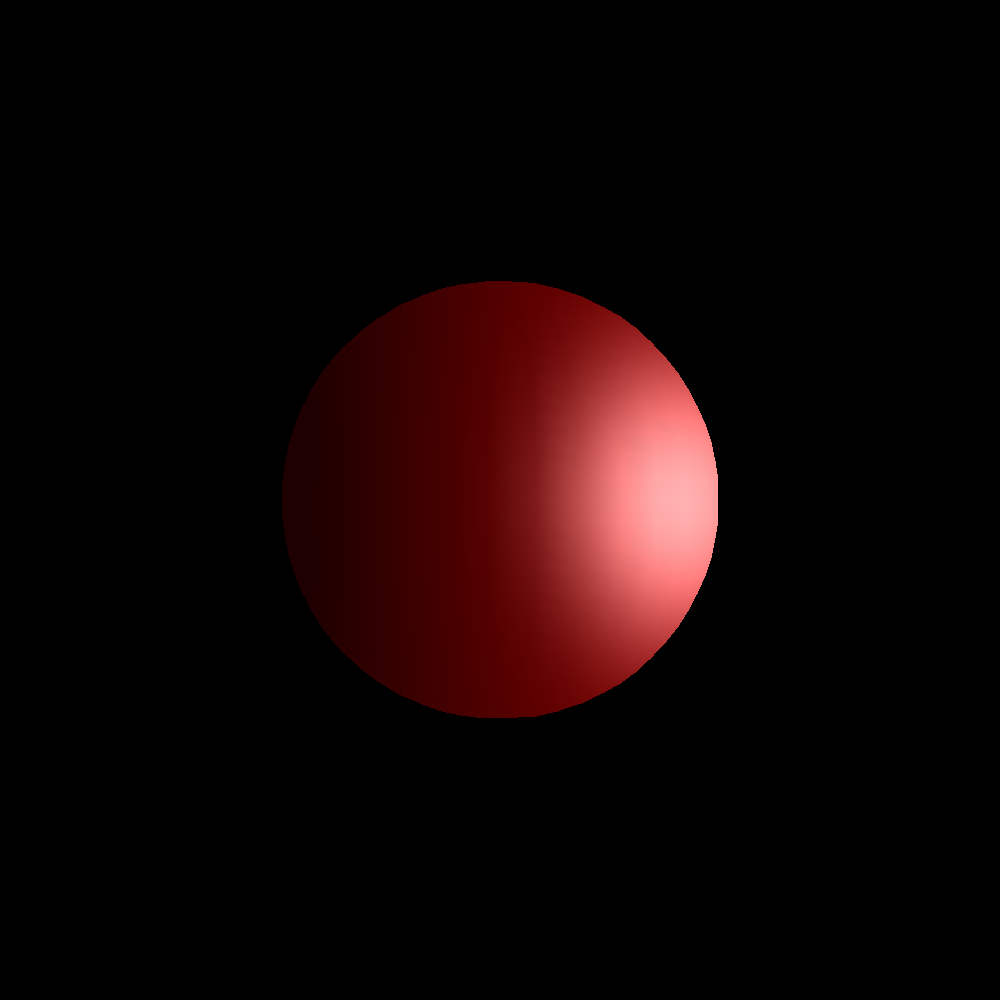
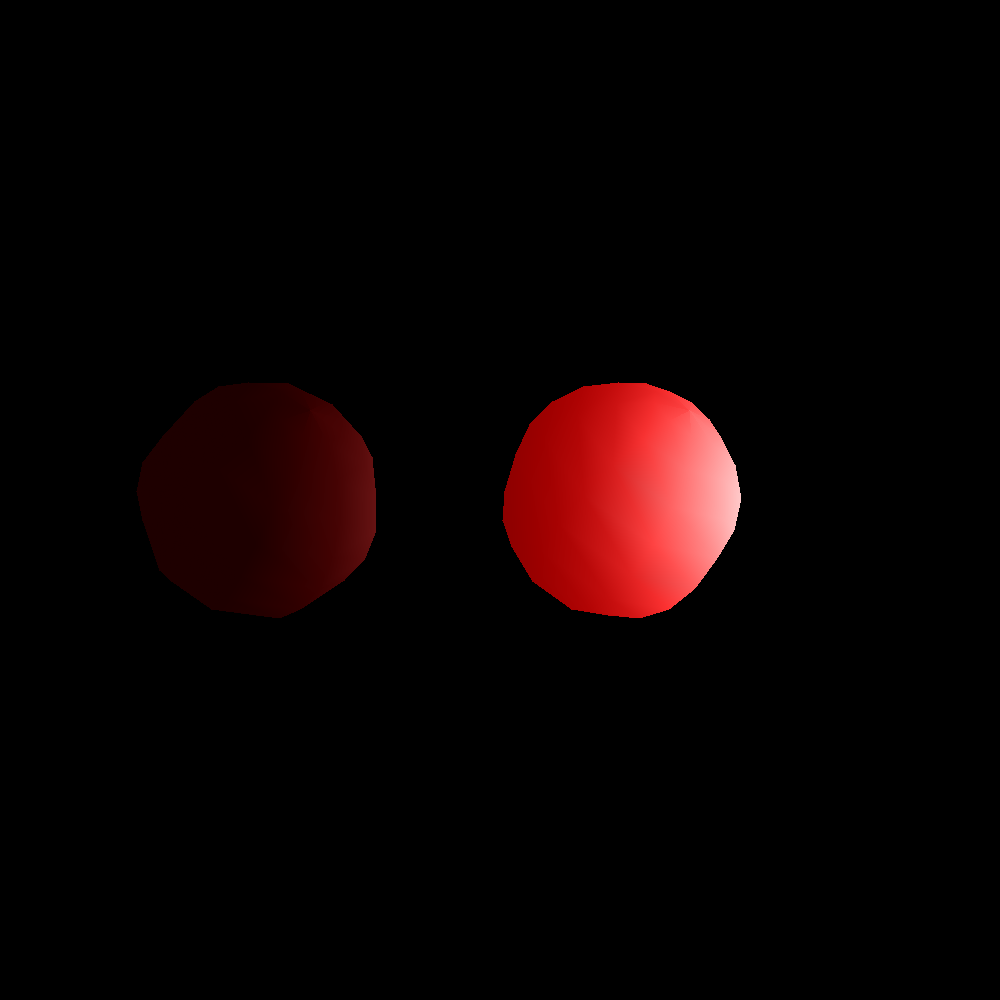
Directional Light

Changed region(s): [[0.124, 0.279, 0.744, 0.744]]

diff --git a/Zad1/DirectionalLight.cpp b/Zad1/DirectionalLight.cpp
@@ -1,57 +1,66 @@
 #include "DirectionalLight.h"
 #include <iostream>
 
-void DirectionalLight::Calculate(Matrix4& camera, Matrix4& obj2view, int& vSize, std::vector<Vector3>& normals, std::vector<Vector3>& vertices, std::vector<Vector3>& color, std::vector<Vector3>& indices, std::vector<Triangle>& triangles)
+DirectionalLight::DirectionalLight(Vector3 position, Vector3 ambient, Vector3 diffuse, Vector3 specular, int shininess, float specularStrenght)
+{
+	this->position = position;
+	this->ambientColor = ambient;
+	this->diffuseColor = diffuse;
+	this->specularColor = specular;
+	this->shininess = shininess;
+	this->specularStrenght = specularStrenght;
+}
+
+void DirectionalLight::Calculate(Mesh& mesh)
 {
 
-	for (int i = 0; i < vSize; ++i)
+	for (int i = 0; i < mesh.vSize; ++i)
 	{
-		Matrix4 model;
-		model = model.Translate(model, Vector3(0, 0, 4));
-		//model = model.Rotate(model,Vector3(1, 0, 0), 45);
-		Vector4 g = obj2view * camera * model * Vector4(normals[i], 1);
-		Vector4 p = obj2view * camera * model * Vector4(-vertices[i], 1);
-		Vector3 N = Vector3(g.x, g.y, g.z);
-		N = N.Normalize();
-		Vector3 V = Vector3(p.x, p.y, p.z);
+		//vertices and normals
+		Vector4 normals = mesh.projection * mesh.camera *mesh.model * Vector4(mesh.normals[i], 1);
+		Vector4 vertices = mesh.projection * mesh.camera * mesh.model * Vector4(-mesh.vertices[i], 1);
+		Vector3 N = Vector3(normals.x, normals.y, normals.z);
+		Vector3 V = Vector3(vertices.x, vertices.y, vertices.z);
+		V = Vector3::Normalize(V);
+		N = Vector3::Normalize(N);
 
-		Vector3 xd = Vector3(0.2f, 0, 0);
-		Vector4 gg = obj2view * camera * Vector4(xd, 1);
-		Vector3 fg = Vector3(gg.x, gg.y, gg.z);
-		fg = fg.Normalize();
-		Vector3 R = (N * 2 * (Vector3::Dot(fg, N))) - fg;
-		float diff = Vector3::Dot(fg, N);
-		float specular = Vector3::Dot(R = Vector3::Normalize(R), V=Vector3::Normalize(V));
-		//specular = 1 / specular;
-		//std::cout << diff << "\n";
-		if (diff < 0) diff = 0;
-		//if (diff > 1) diff = 1;
+		//light position
+		Matrix4 d;
+		d = Matrix4::Translate(d, Vector3(0, 0, 5));
+		Vector4 pos = mesh.projection * mesh.camera  *Vector4(position, 1);
+		Vector3 lightPosition = Vector3(pos.x, pos.y, pos.z);
+		lightPosition = lightPosition.Normalize();
+
+		//difffuse
+		float diffuse = Vector3::Dot(lightPosition, N);
+		if (diffuse < 0) diffuse = 0;
+		Vector3 dif = diffuseColor * diffuse;
+
+		//specular
+		Vector3 R = (N * 2 * (Vector3::Dot(lightPosition, N))) - lightPosition;		
+		R = Vector3::Normalize(R);
+		float specular = Vector3::Dot(R , V);
 		Vector3 spec;
-		if (specular > 0) {
+
+		if (specular > 0) 
+		{
 			specular = pow(specular, 4);
-
-			spec = Vector3(255, 255, 255) * specular * 0.7f ;
+			spec = specularColor * specular * 0.9f ;
 		}
-		//else { spec = Vector3(0, 0, 0); }
-		
-		//if (specular < 0) specular = 0;
-		//if (specular > 0) specular = 1;
 
-		Vector3 dif = Vector3(140, 0, 0) * diff;
-
-		Vector3 amb(30, 0, 0);
-		color.push_back( dif + spec + amb );
-		if (color[i].x > 255) color[i].x = 255;
-		if (color[i].y > 255) color[i].y = 255;
-		if (color[i].z > 255) color[i].z = 255;
+		mesh.colors.push_back( dif + spec + ambientColor );
+		if (mesh.colors[i].x > 255) mesh.colors[i].x = 255;
+		if (mesh.colors[i].y > 255) mesh.colors[i].y = 255;
+		if (mesh.colors[i].z > 255) mesh.colors[i].z = 255;
 
 	}
+
 	int i = 0;
-	for (auto& t : triangles)
+	for (auto& t : mesh.triangles)
 	{
-		t.colorV1 = color[(int)indices[i].y];
-		t.colorV2 = color[(int)indices[i].x];
-		t.colorV3 = color[(int)indices[i].z];
+		t.colorV1 = mesh.colors[(int)mesh.indices[i].y];
+		t.colorV2 = mesh.colors[(int)mesh.indices[i].x];
+		t.colorV3 = mesh.colors[(int)mesh.indices[i].z];
 		i++;
 	}
 }

diff --git a/Zad1/RenderingAlghortims.cpp b/Zad1/RenderingAlghortims.cpp
@@ -15,17 +15,11 @@ int main()
 {
 	ColorBuffer buffer(WIDTH, HEIGHT);
 
-	for (int i = 0; i < HEIGHT; i++)
-	{
-		for (int j = 0; j < WIDTH; j++)
-		{
-			DEPTHBUFFER[i* HEIGHT +j] = INFINITY;
-		}
-	}
 
-	Sphere sphere(35, 35);
+
+	Sphere sphere(9, 9);
 	//Cylinder cylinder(6, 6);
-	//Cone cone(4, 0.5f);
+	Sphere cone(9, 9);
 
 	Matrix4 obj2view;
 	obj2view.Perspective(50, 1.f, 0.1f, 100.f);
@@ -33,18 +27,32 @@ int main()
 	Matrix4 camera;
 	camera = camera.LookAt(Vector3(0, 0, 0), Vector3(0, 0, 10), Vector3(0, 1, 0));
 
-	for (auto& t : sphere.triangles)
-	{
-		t.SetTranslation(Vector3(0, 0.0f, 5));
-		//t.SetRotation(Vector3(1, 0, 0), 90);
-		t.SetView(obj2view, camera);
-	}
+	Matrix4 model;
+	model = model.Translate(model, Vector3(-2, 0, 9));
+	model = model.Rotate(model, Vector3(1, 0, 1), 45);
 
-	DirectionalLight dl;
-	dl.Calculate(camera, obj2view, sphere.vSize, sphere.normals, sphere.vertices, sphere.colors, sphere.indices, sphere.triangles);
+	Matrix4 m;
+	m = m.Translate(m, Vector3(1, 0, 9));
+	m = m.Rotate(m, Vector3(1, 0, 1), 45);
+
+	sphere.SetModelMatrix(model);
+	sphere.SetCamera(camera);
+	sphere.SetProjection(obj2view);
+
+	cone.SetModelMatrix(m);
+	cone.SetCamera(camera);
+	cone.SetProjection(obj2view);
+
+	sphere.SetView();
+	cone.SetView();
+
+	DirectionalLight dl(Vector3(8, 0, 8), Vector3(30,0,0),Vector3(255,0,0),Vector3(255,255,255));
+
+	dl.Calculate(sphere);
+	dl.Calculate(cone);
 
 	std::vector<Mesh> figures;
-	figures = { sphere};
+	figures = { sphere,cone};
 	for (int i = 0; i < HEIGHT; i++)
 	{
 		for (int j = 0; j < WIDTH; j++)

diff --git a/Zad1/Triangle.cpp b/Zad1/Triangle.cpp
@@ -11,11 +11,11 @@ Triangle::Triangle(Vector3 v1, Vector3 v2, Vector3 v3, Vector3 c1, Vector3 c2, V
 	model = Matrix4::Identity();
 }
 
-void Triangle::SetView(Matrix4 obj2view, Matrix4 camera) {
+void Triangle::SetView(Matrix4 obj2view, Matrix4 camera, Matrix4 m) {
 
-	Vector4 p1 = obj2view * camera * model * Vector4(v1, 1);
-	Vector4 p2 = obj2view * camera * model * Vector4(v2, 1);
-	Vector4 p3 = obj2view * camera * model * Vector4(v3, 1);
+	Vector4 p1 = obj2view * camera * m * Vector4(v1, 1);
+	Vector4 p2 = obj2view * camera * m * Vector4(v2, 1);
+	Vector4 p3 = obj2view * camera * m * Vector4(v3, 1);
 
 	this->v1 = Vector3(p1.x / p1.w, p1.y / p1.w, p1.z / p1.w);
 	this->v2 = Vector3(p2.x / p2.w, p2.y / p2.w, p2.z / p2.w);

diff --git a/Zad1/DirectionalLight.h b/Zad1/DirectionalLight.h
@@ -3,9 +3,11 @@
 #include "Matrix4.h"
 #include <vector>
 #include "Triangle.h"
+#include "Mesh.h"
 class DirectionalLight : public Light
 {
 public:
-	void Calculate(Matrix4& camera, Matrix4& obj2view, int& vSize, std::vector<Vector3>& normals, std::vector<Vector3>& vertices , std::vector<Vector3>& color, std::vector<Vector3>& indices, std::vector<Triangle>& triangles);
+	DirectionalLight(Vector3 position, Vector3 ambient, Vector3 diffuse, Vector3 specular, int shininess = 8, float specularStrenght = 1.f);
+	void Calculate(Mesh& mesh);
 };
 

diff --git a/Zad1/Mesh.h b/Zad1/Mesh.h
@@ -8,6 +8,10 @@ public:
 	int vSize;
 	int tSize;
 
+	Matrix4 model;
+	Matrix4 camera;
+	Matrix4 projection;
+
 	std::vector<Vector3> vertices;
 	std::vector<Vector3> indices;
 	std::vector<Vector3> normals;
@@ -16,5 +20,9 @@ public:
 	std::vector<Triangle> triangles;
 
 	void CalculateNormals();
+	void SetCamera(Matrix4& camera);
+	void SetProjection(Matrix4& projection);
+	void SetModelMatrix(Matrix4& model);
+	void SetView();
 };
 

diff --git a/Zad1/Mesh.cpp b/Zad1/Mesh.cpp
@@ -25,3 +25,26 @@ void Mesh::CalculateNormals()
 		normals[i] = normals[i].Normalize();
 	}
 }
+
+void Mesh::SetCamera(Matrix4& camera)
+{
+	this->camera = camera;
+}
+
+void Mesh::SetProjection(Matrix4& projection)
+{
+	this->projection = projection;
+}
+
+void Mesh::SetModelMatrix(Matrix4& model)
+{
+	this->model = model;
+}
+
+void Mesh::SetView()
+{
+	for (auto& i : triangles)
+	{
+		i.SetView(projection, camera, model);
+	}
+}

diff --git a/Zad1/Triangle.h b/Zad1/Triangle.h
@@ -35,7 +35,7 @@ public:
     bool isInsideTriangle(int &i, int &j);
     void Draw(int& i, int& j, ColorBuffer& buffer);
     void Lambda(int& i, int& j);
-    void SetView(Matrix4 obj2view, Matrix4 camera);
+    void SetView(Matrix4 obj2view, Matrix4 camera, Matrix4 m);
     void SetTranslation(Vector3 t);
     void SetRotation(Vector3 axis, float angle);
     void SetScale(Vector3 s);

diff --git a/Zad1/DepthBuffer.cpp b/Zad1/DepthBuffer.cpp
@@ -10,9 +10,15 @@ DepthBuffer& DepthBuffer::Instance(int width, int height)
 DepthBuffer::DepthBuffer(int width, int height)
 {
 	depthbuff = new float[width * height];
-}
 
-DepthBuffer::DepthBuffer() {}
+	for (int i = 0; i < HEIGHT; i++)
+	{
+		for (int j = 0; j < WIDTH; j++)
+		{
+			depthbuff[i * HEIGHT + j] = INFINITY;
+		}
+	}
+}
 
 DepthBuffer::~DepthBuffer()
 {

diff --git a/Zad1/Sphere.cpp b/Zad1/Sphere.cpp
@@ -38,7 +38,9 @@ Sphere::Sphere(int vert, int horiz)
 			));
 		}
 	}
+
 	CalculateNormals();
+
 	for (int i = 0; i < tSize; i++)
 	{
 		triangles.push_back(Triangle(vertices[(int)indices[i].y], vertices[(int)indices[i].x], vertices[(int)indices[i].z], Vector3(255, 0, 0), Vector3(0, 255, 0), Vector3(0, 0, 255), 1000, 1000));

diff --git a/Zad1/Light.h b/Zad1/Light.h
@@ -1,5 +1,14 @@
 #pragma once
+#include "Vector3.h"
 class Light
 {
+public:
+	Vector3 position;
+	Vector3 ambientColor;
+	Vector3 diffuseColor;
+	Vector3 specularColor;
+
+	int shininess;
+	float specularStrenght;
 };
 
